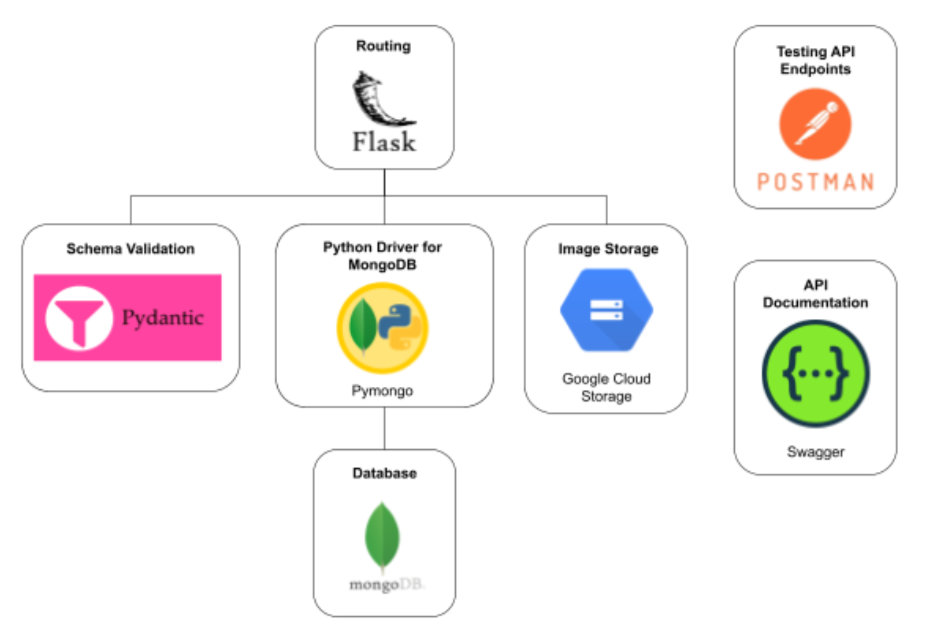
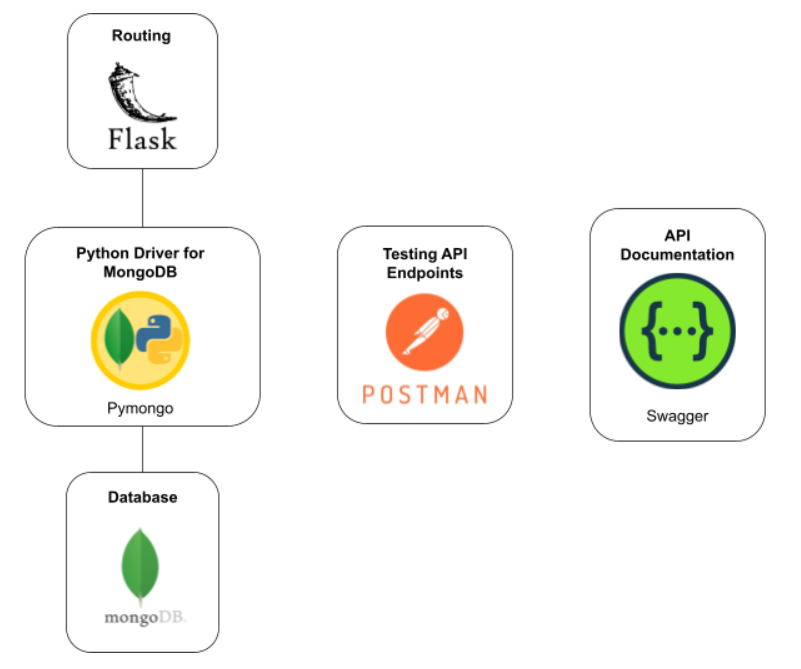
Update documentation with schema validation design decision and new backend infra

diff --git a/README.md b/README.md
@@ -215,3 +215,6 @@ Cons:
   - about 50KB for a document with base64Img, depends on size of image I think
   - Can get around this by compressing the image before storing
 
+**Design Decision: Schema Validation on server side**
+
+Upon some reading, I decided not to focus too much on schema validation on the server side for this project. This is because input validation will already be done on the client side for user experience purposes and the client side will be sending the correct data to the API. I am able to do this since this is a small project and I am the only developer involved. However, if there were separate people working on the frontend and backend, I would definitely prioritize schema validation on server side more.
